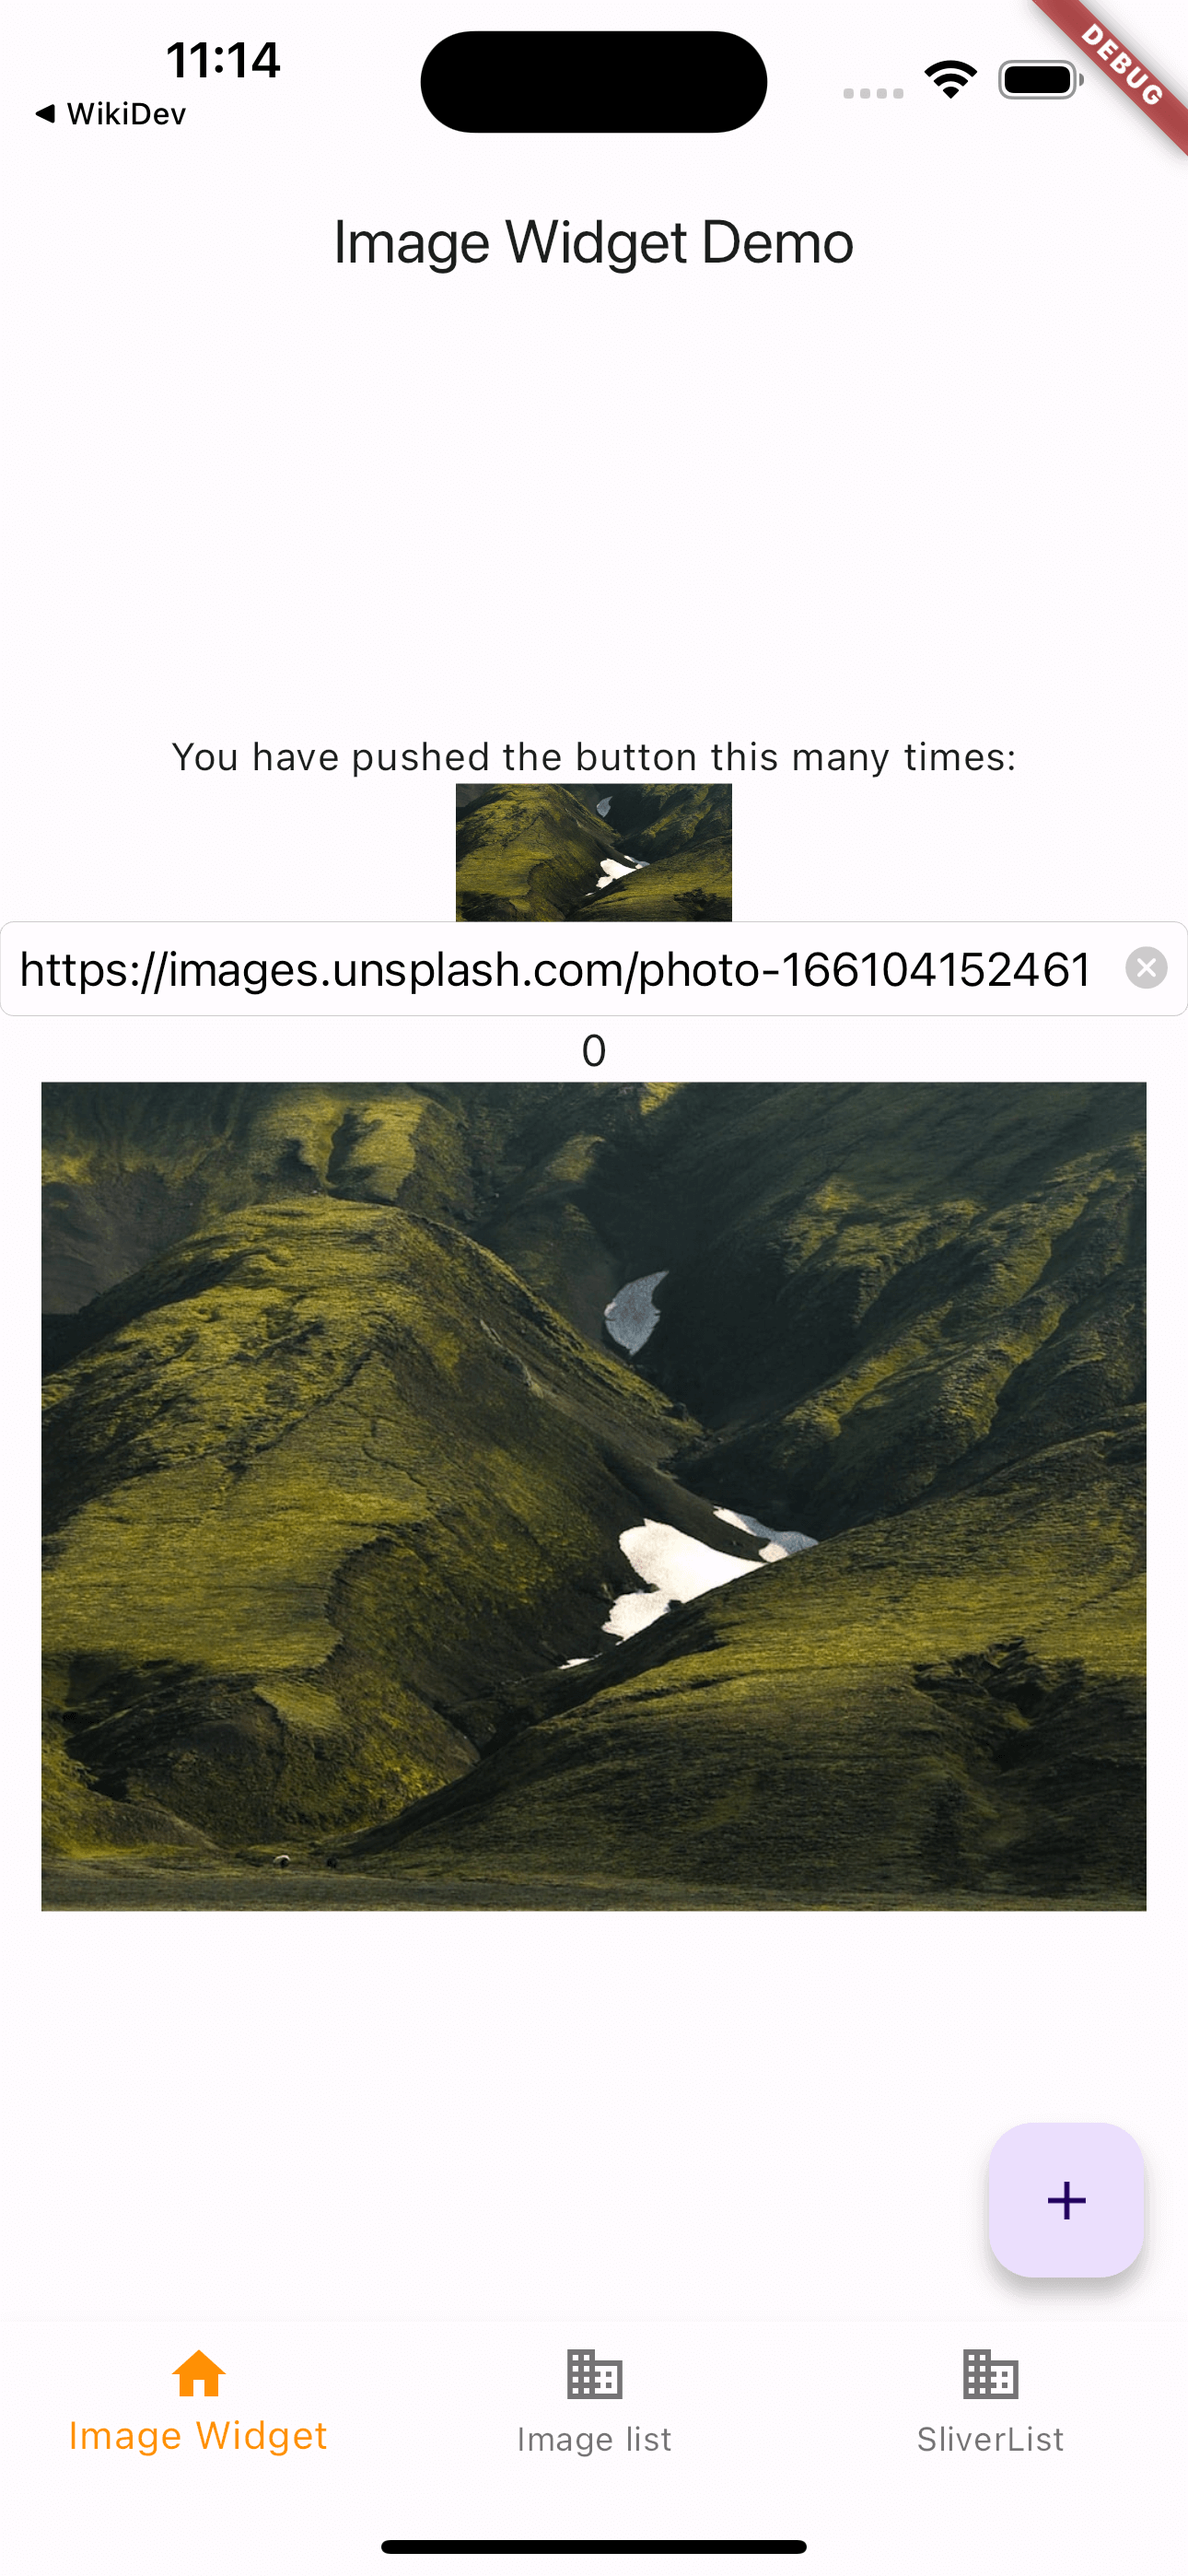
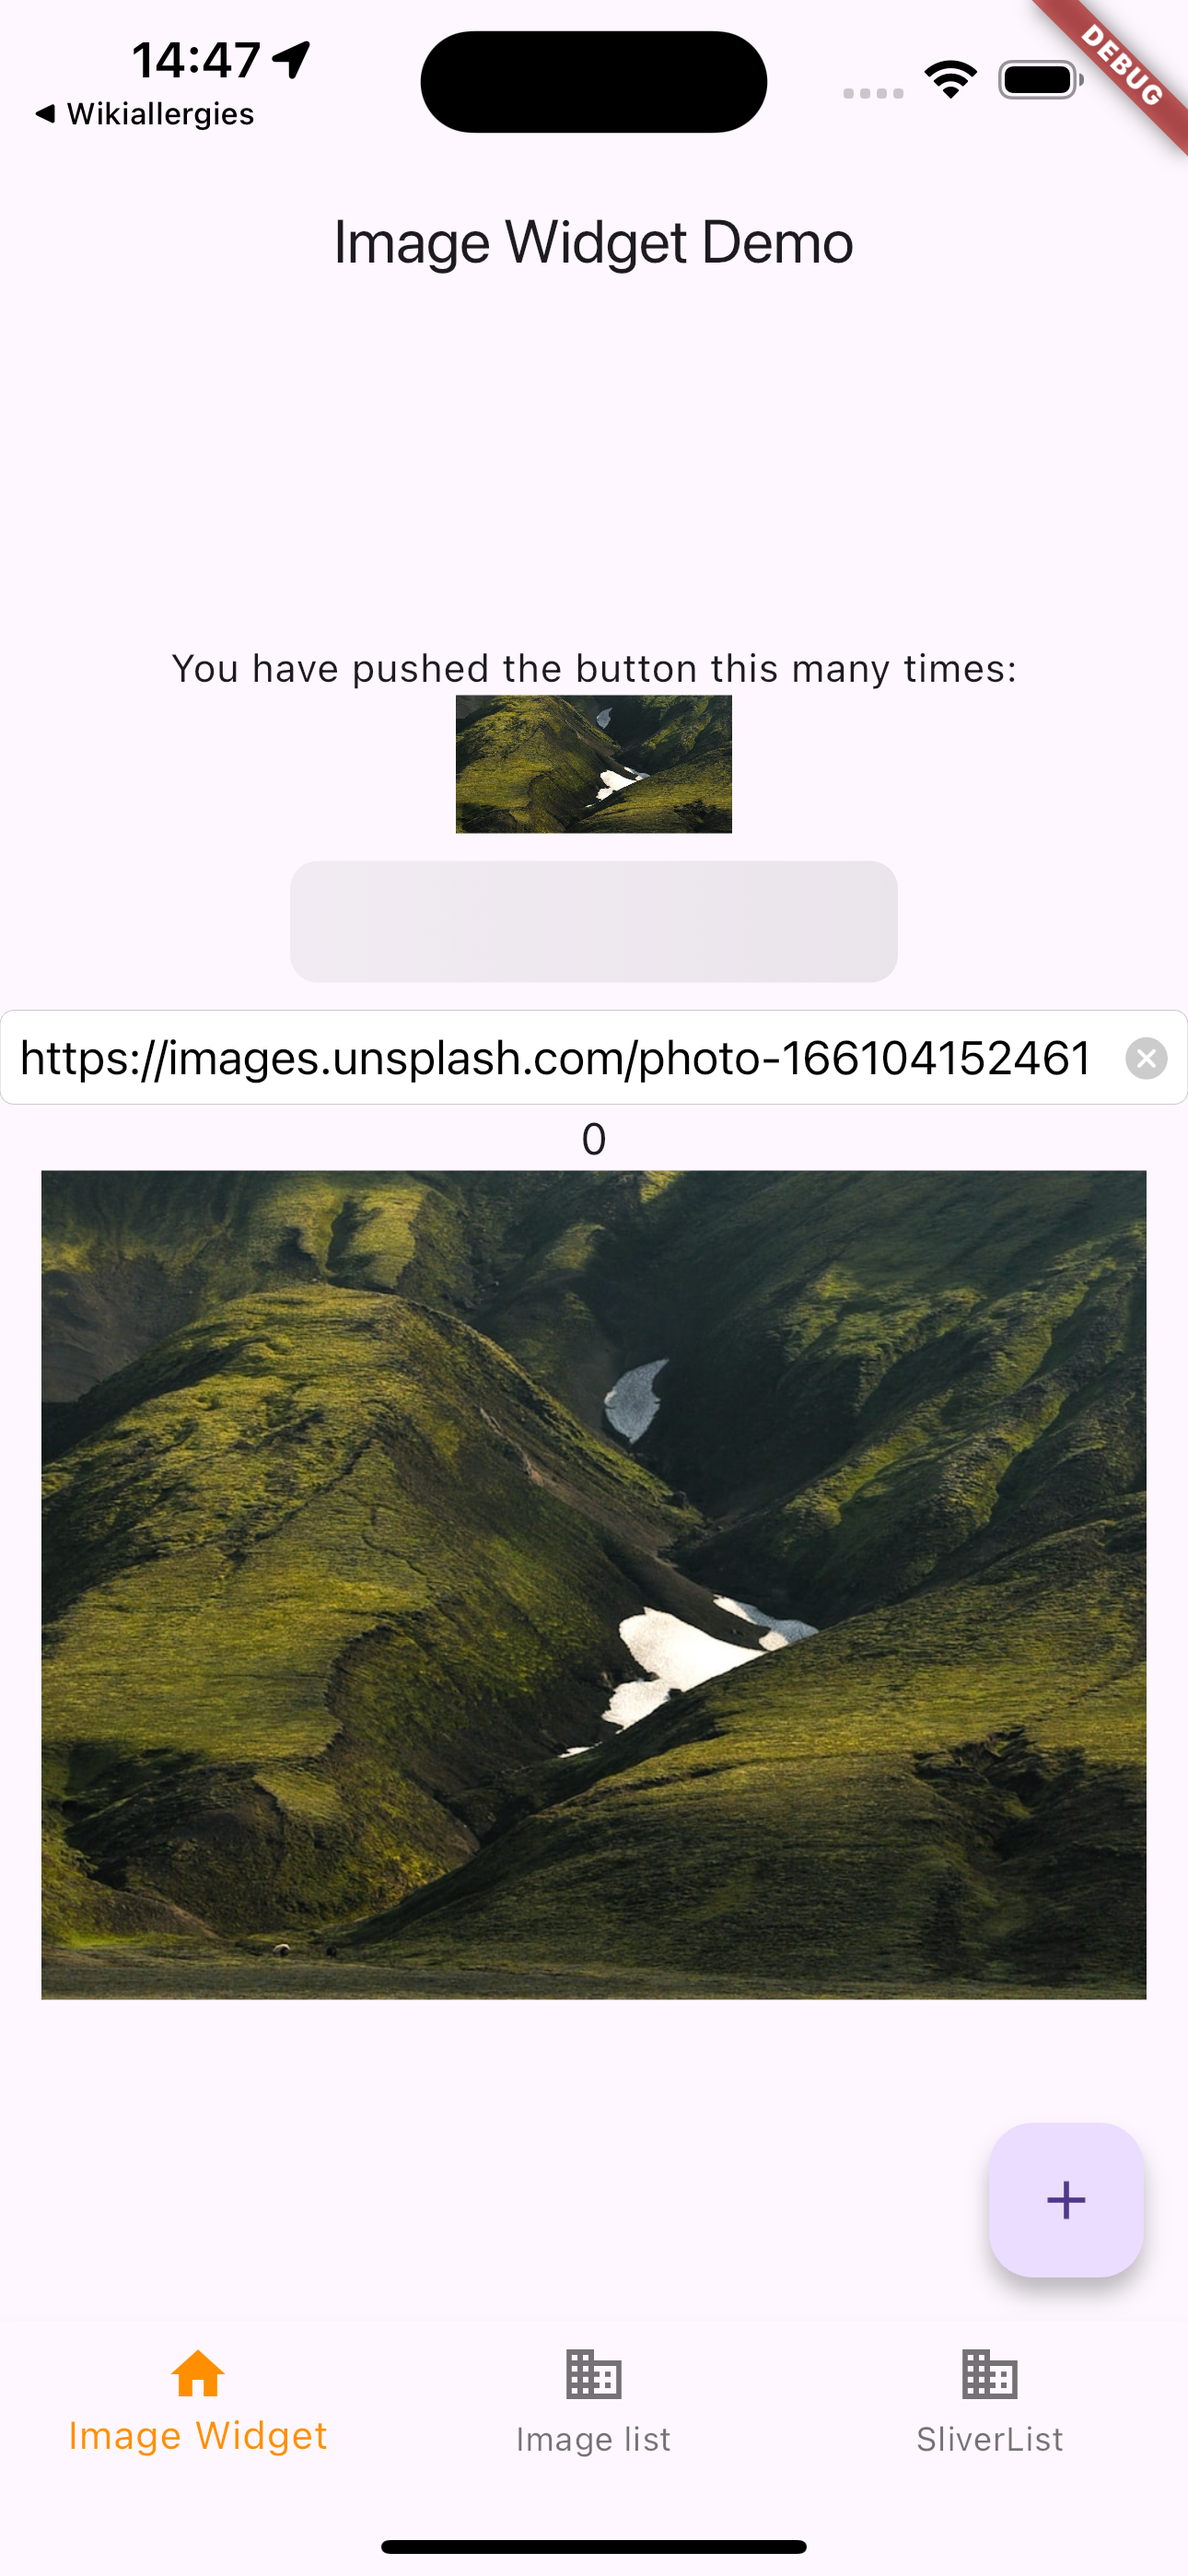
Add border radius for Skeleton widget

diff --git a/lib/src/image_list_widget.dart b/lib/src/image_list_widget.dart
@@ -13,7 +13,7 @@ class ImageListsWidget extends StatefulWidget {
   final bool shrinkWrap;
 
   const ImageListsWidget({
-    Key? key,
+    super.key,
     this.header,
     this.aspectRatio = 1,
     required this.images,
@@ -21,7 +21,7 @@ class ImageListsWidget extends StatefulWidget {
     this.videoBuilder,
     this.isShowTitle = false,
     this.shrinkWrap = true,
-  }) : super(key: key);
+  });
 
   @override
   State<ImageListsWidget> createState() => _ImageListsWidgetState();
@@ -127,7 +127,7 @@ class SlidePage extends StatefulWidget {
   final bool isShowTitle;
 
   const SlidePage({
-    Key? key,
+    super.key,
     required this.images,
     this.header,
     required this.index,
@@ -135,7 +135,7 @@ class SlidePage extends StatefulWidget {
     this.videoBuilder,
     required this.isShowTitle,
     required this.url,
-  }) : super(key: key);
+  });
 
   @override
   State<SlidePage> createState() => _SlidePageState();
@@ -248,7 +248,7 @@ class _SlidePageState extends State<SlidePage> {
                           ),
                           Container(
                             color: (widget.themeColor ?? Colors.black)
-                                .withOpacity(0.08),
+                                .withValues(alpha: 0.08),
                             margin: const EdgeInsets.only(left: 5, right: 16),
                             padding: const EdgeInsets.symmetric(
                                 horizontal: 12, vertical: 2),

diff --git a/example/lib/main.dart b/example/lib/main.dart
@@ -12,7 +12,7 @@ void main() {
 }
 
 class MyApp extends StatelessWidget {
-  const MyApp({Key? key}) : super(key: key);
+  const MyApp({super.key});
 
   // This widget is the root of your application.
   @override
@@ -28,7 +28,7 @@ class MyApp extends StatelessWidget {
 }
 
 class MyHomePage extends StatefulWidget {
-  const MyHomePage({Key? key, required this.title}) : super(key: key);
+  const MyHomePage({super.key, required this.title});
   final String title;
 
   @override
@@ -82,7 +82,15 @@ class _MyHomePageState extends State<MyHomePage> {
             'https://images.unsplash.com/photo-1661041524618-220a2a2b8b7.png',
             width: 100,
             height: 50,
+          
           ),
+          Container(
+            margin: const EdgeInsets.all(10),
+            height:  44 ,
+            width: 220,
+            child: Skeleton(
+              borderRadius: BorderRadius.circular(10),
+            ),),
           CupertinoTextField(
             clearButtonMode: OverlayVisibilityMode.editing,
             controller: linkCtr,

diff --git a/lib/src/image_widget.dart b/lib/src/image_widget.dart
@@ -30,7 +30,7 @@ class ImageWidget extends StatefulWidget {
 
   const ImageWidget(
     this.source, {
-    Key? key,
+    super.key,
     this.fit = BoxFit.cover,
     this.width,
     this.height,
@@ -43,11 +43,11 @@ class ImageWidget extends StatefulWidget {
     this.aspectRatio = 2.0,
     this.useFadeInAnimation = true,
     this.errorWidget,
-  }) : super(key: key);
+  });
 
   const ImageWidget.avatar(
     this.source, {
-    Key? key,
+    super.key,
     this.fit = BoxFit.cover,
     this.width = 40,
     this.height = 40,
@@ -60,7 +60,7 @@ class ImageWidget extends StatefulWidget {
     this.aspectRatio = 2.0,
     this.useFadeInAnimation = true,
     this.errorWidget,
-  }) : super(key: key);
+  });
 
   Widget copyWith({Color? color, double? width, double? height}) {
     return ImageWidget(

diff --git a/lib/src/widgets/skeleton_widget.dart b/lib/src/widgets/skeleton_widget.dart
@@ -3,7 +3,10 @@
 import 'package:flutter/material.dart';
 
 class Skeleton extends StatefulWidget {
-  const Skeleton({Key? key}) : super(key: key);
+  final BorderRadiusGeometry? borderRadius;
+
+  const Skeleton({super.key, this.borderRadius,});
+
 
   @override
   State<Skeleton> createState() => _SkeletonState();
@@ -43,6 +46,7 @@ class _SkeletonState extends State<Skeleton>
   Widget build(BuildContext context) {
     return Container(
       decoration: BoxDecoration(
+        borderRadius: widget.borderRadius,
         gradient: LinearGradient(
           begin: Alignment(gradientPosition.value, 0),
           end: const Alignment(-1, 0),

diff --git a/lib/src/widgets/hero_widget.dart b/lib/src/widgets/hero_widget.dart
@@ -4,12 +4,12 @@ import 'package:flutter/material.dart';
 /// make hero better when slide out
 class HeroWidget extends StatefulWidget {
   const HeroWidget({
-    Key? key,
+    super.key,
     required this.child,
     required this.tag,
     required this.slidePagekey,
     this.slideType = SlideType.onlyImage,
-  }) : super(key: key);
+  });
 
   final Widget child;
   final SlideType slideType;

diff --git a/lib/src/widgets/image_zoom.dart b/lib/src/widgets/image_zoom.dart
@@ -7,9 +7,9 @@ class ImageZoom extends StatefulWidget {
   final String url;
 
   const ImageZoom({
-    Key? key,
+    super.key,
     required this.url,
-  }) : super(key: key);
+  });
 
   @override
   State<ImageZoom> createState() => _ImageZoomState();

diff --git a/lib/src/widgets/svg_image.dart b/lib/src/widgets/svg_image.dart
@@ -8,10 +8,10 @@ class SvgImage extends StatelessWidget {
 
   const SvgImage(
     this.string, {
-    Key? key,
+    super.key,
     this.width,
     this.height,
-  }) : super(key: key);
+  });
 
   @override
   Widget build(BuildContext context) {

diff --git a/example/ios/Runner/AppDelegate.swift b/example/ios/Runner/AppDelegate.swift
@@ -1,7 +1,7 @@
 import UIKit
 import Flutter
 
-@UIApplicationMain
+@main
 @objc class AppDelegate: FlutterAppDelegate {
   override func application(
     _ application: UIApplication,

diff --git a/CHANGELOG.md b/CHANGELOG.md
@@ -1,3 +1,6 @@
+# 1.2.2
+* Add border radius for `Skeleton` widget
+
 # 1.2.0
 + Upgrade library `lottie: ^3.1.0`
 
